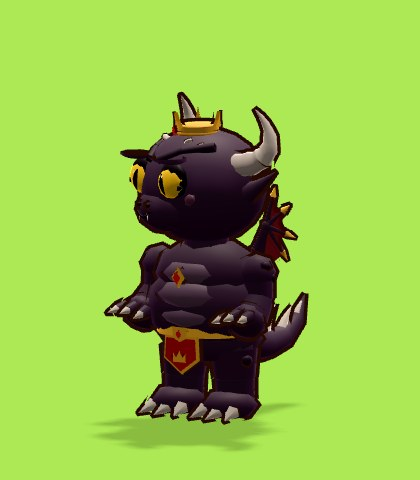
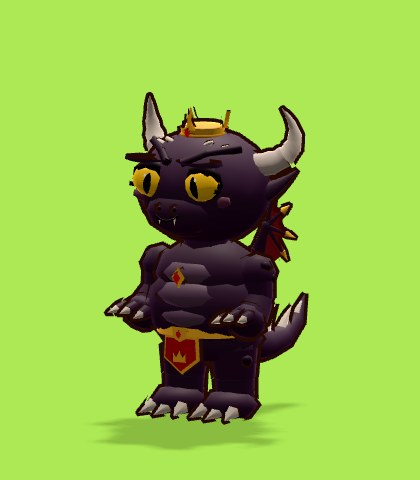
악마형 마왕 Lv.1 후보 2차 보완(심사 반영): 금 테 옷깃·버건디 가슴판·어깨 덮개·긴 코트, 코트 밖 금 테 망토와 등 문장, 법선 방향 뿔 뿌리 깃, 눈알 위 짙은 뚜껑·끝이 가는 눈썹, 옆으로 뻗은 귀, 올린 밝은 날개, 코·볼·꼬리·화살촉
- DemonGeo: cape_grid(격자 점 반환), front_strip(회전체 겉면을 따라가는 띠)
- 삼각형 5,994(예산 6,000), 리그 검사 89 통과, 기존 검사 변화 없음(520·605)
- 정적 캡처는 고개를 돌리지 않는 대기 시각(t=1.43)으로 통일

Claude-Session: https://claude.ai/code/session_018KLY14EwvE8xar9qznKC7e

diff --git a/docs/design/demon-lv1/README.md b/docs/design/demon-lv1/README.md
@@ -45,11 +45,14 @@
   - `limb()`: 어깨 속에서 손끝까지 **이어진 관**(마디마다 뼈·색·외곽선 세기가 바뀜). 관절에 구를 끼우지 않음. 몸속에 숨은 시작 고리는 외곽선 0.
   - 정점 명암 굽기 끔(`bake = 0`): 명암은 조명만으로.
 - `scripts/world/chars/demon_lv1_builder.gd` — 악마형 Lv.1 본체. 뼈 이름·기준점·정면·`Cape` 뼈·`def` 키가 기존 뿔이와 같아 `CharacterRig`의 자세(걷기·환호·무서운 척)·표정·깜빡임·2차 움직임이 **수정 없이** 동작.
-- 눈: 눈두덩 바닥보다 조금 안쪽에 눈알 중심을 두어 앞면만 살짝 나옴. 두꺼운 검은 테 대신 윗눈꺼풀 선 하나, 반사광은 작은 점 하나. 눈썹은 표면에 반쯤 묻힌 능선.
-- 뿔: 베지어 곡선을 따라가는 이어진 관, 반지름을 매끈하게 흔들어 마디 능선(틈 없음), 짙은 갈색.
+- 눈: 눈두덩 바닥보다 조금 안쪽에 눈알 중심을 두어 앞면만 살짝 나옴. 두꺼운 검은 테 대신 눈알 윗부분을 덮는 짙은 뚜껑(눈 뼈에 붙어 깜빡임·표정과 같이 움직임), 반사광은 작은 점 하나. 눈썹은 양 끝이 가늘어지는 능선 띠(표정으로 회전·내려가도 눈에 박히지 않음).
+- 뿔: 첫 마디는 머리 겉면 법선 방향으로 곧게 나와 둥근 깃이 되고(뿌리가 표면을 스치지 않음), 그 뒤 베지어 곡선으로 바깥·위로 휨. 반지름을 매끈하게 흔든 마디 능선(틈 없음), 짙은 갈색.
+- 의상: 코트 회전체 위에 곡면을 따라가는 띠(`front_strip`)로 버건디 가슴판·양옆 금 세로 테·어깨에서 걸쇠로 모이는 금 테 옷깃, 금 테 어깨 덮개, 걸쇠 아래 금 해골, 허리띠·버클, 단 테. 망토는 코트 등판 바깥에서 발목 가까이까지(금 테 가장자리, 등의 악마 문장), 앞치마는 허리띠 아래.
 - 재질·외곽선: 기존 공유 재질과 외곽선 그대로 사용(공유 재질을 바꾸지 않음). 테스트 씬에 얇은 외곽선·외곽선 없음 변형도 둠.
 
 변경·추가 파일: `scripts/world/chars/demon_geo.gd`, `scripts/world/chars/demon_lv1_builder.gd`(새 파일), `tests/demon_lv1_scene.gd`(테스트 씬·캡처), `tests/demon_lv1_checks.gd`(리그 검사), `scripts/debug/shot_driver.gd`에 시나리오 `demon_lv1` 추가(디버그 전용, 내보내기 제외), `docs/design/concept/sheet-3-demon-king.jpg`와 `crops/s3-*`. **기존 `imp_builder.gd`·`char_geo.gd`·`character_rig.gd`·다른 캐릭터·config 는 수정하지 않았습니다.**
+
+**심사와 2차 보완.** 별도 심사 에이전트가 1차 결과를 시안과 대조해 일치 6 / 형태 6으로 매기고 막힘 4건(지퍼처럼 보이는 코트 앞면, 코트 속에 묻힌 망토, 머리 겉면을 스치는 뿔 뿌리 자국, 화남 표정에서 깨지는 눈썹·떠다니는 눈선)과 소소한 8건(눈 크기·위치, 동공, 코, 볼, 귀 방향, 날개 위치·색, 앞치마 크기, 불꽃 곁가지, 꼬리 색·화살촉)을 지적했고, 모두 반영했습니다. 캡처 자체의 문제(대기 자세 t=0에서 고개가 27° 돌아감)도 지적받아 정적 캡처를 고개를 돌리지 않는 시각(t=1.43)으로 바꿨습니다(기존·후보 모두 같은 조건).
 
 ## 4. 결과(같은 카메라·조명·해상도)
 
@@ -80,10 +83,10 @@ A 기존 모델 / C 새 모델 회색 재질 / D 새 모델 최종:
 
 ## 5. 검증
 
-- `tests/demon_lv1_checks.gd`(헤드리스): 기존 뿔이 Lv.1과 후보에 같은 검사 → **89 통과, 0 실패**. 관절·얼굴 뼈·망토 뼈, 대기 최저점(후보 0.005), HEIGHT 0.920(0.85~1.0), 정면 −Z, 오른손 +X, 걷기 접지(−0.03~0.035)·몸 위아래·무릎 굽힘, 환호 중 최저점, 무서운 척 최저점(후보 −0.041: 공통 자세가 몸을 좌우로 기울여 바깥 장화 모서리가 4cm 내려감, 기준 −0.05), 표정 4종 변화, 6초 안 깜빡임, 망토 2차 움직임, 삼각형 예산, 그리기 호출 1, 결정적 메시·자세.
+- `tests/demon_lv1_checks.gd`(헤드리스): 기존 뿔이 Lv.1과 후보에 같은 검사 → **89 통과, 0 실패**. 관절·얼굴 뼈·망토 뼈, 대기 최저점(후보 0.005), HEIGHT 0.920(0.85~1.0), 정면 −Z, 오른손 +X, 걷기 접지(−0.03~0.035)·몸 위아래·무릎 굽힘, 환호 중 최저점, 무서운 척 최저점(공통 자세가 몸을 좌우로 기울여 바깥 장화·망토 모서리가 내려감, 기준 −0.05), 표정 4종 변화, 6초 안 깜빡임, 망토 2차 움직임, 삼각형 예산, 그리기 호출 1, 결정적 메시·자세.
 - 기존 검사도 변화 없음: 캐릭터 검사 520, 규칙 검사 605 통과(다른 캐릭터·뿔이 Lv.2~4 무변경).
 - 실제 게임 시나리오(`--scenario=demon_lv1`): 산책·누르기 판정(true)·말풍선(true)·환호·무서운 척 모두 후보에서도 동작. 관통: 테스트 씬 캡처에서 망토·날개·꼬리·얼굴의 눈에 띄는 관통 없음(걷기·환호·무서운 척 프레임 기준, 전 프레임 검사는 아님).
-- 성능(측정값): 모델 단위 삼각형 5,189 → 5,728(+10%), 정점 5,293 → 4,410(−17%, CPU 스키닝 부담 감소), 그리기 호출 1 → 1. 장면 FPS 는 따로 재지 않았습니다(캐릭터 1명 차이라 소프트웨어 렌더러 오차보다 작습니다).
+- 성능(측정값): 모델 단위 삼각형 5,189 → 5,994(+16%, 예산 6,000 안), 정점 5,293 → 4,799(−9%, CPU 스키닝 부담 감소), 그리기 호출 1 → 1. 장면 FPS 는 따로 재지 않았습니다(캐릭터 1명 차이라 소프트웨어 렌더러 오차보다 작습니다).
 
 ## 6. 시안과 아직 다른 것 / 남은 개선
 
